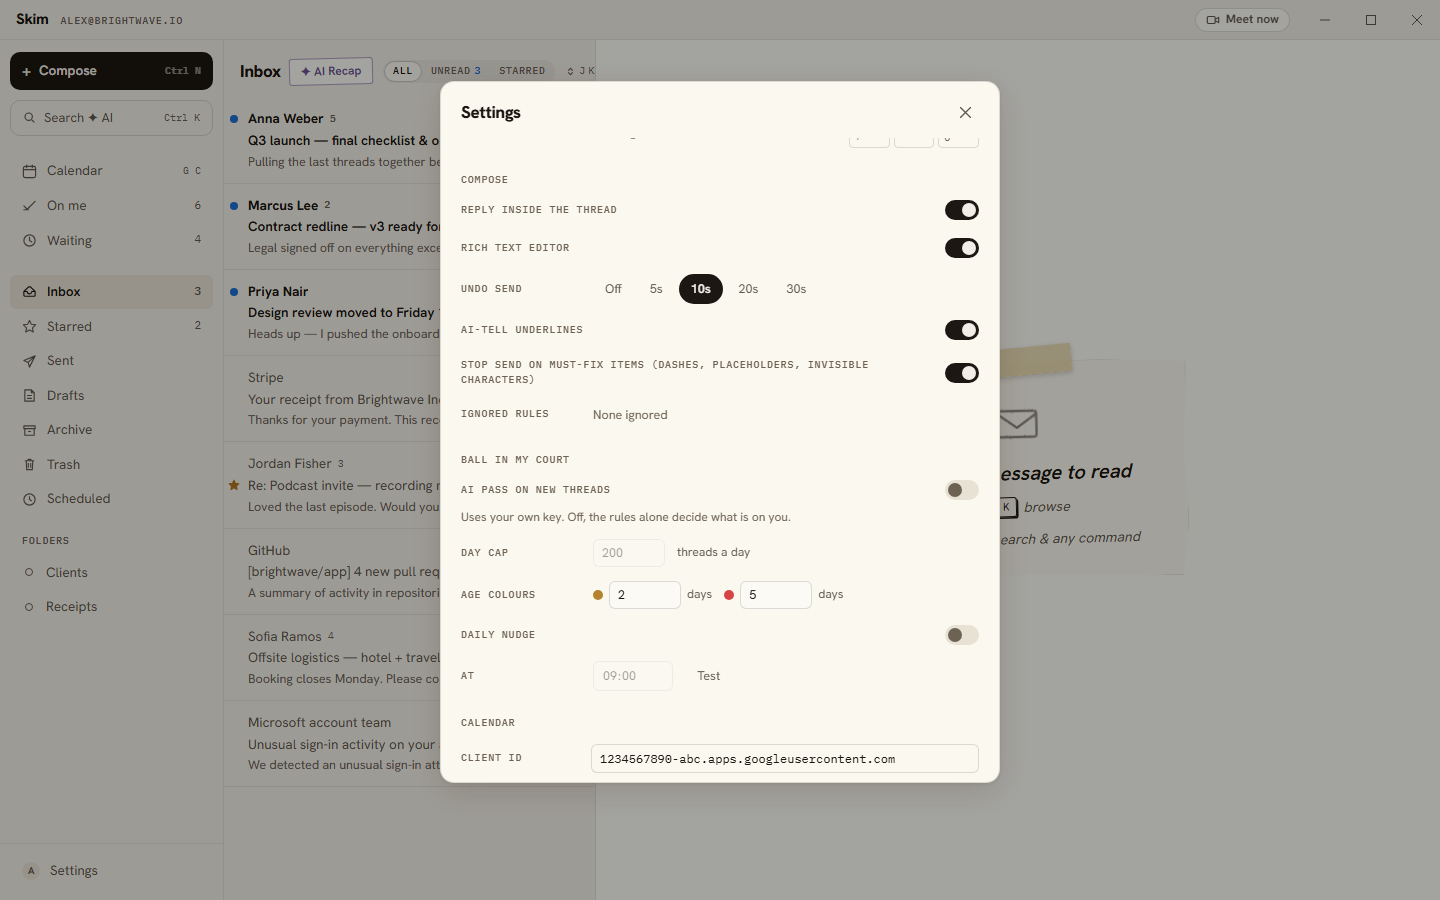
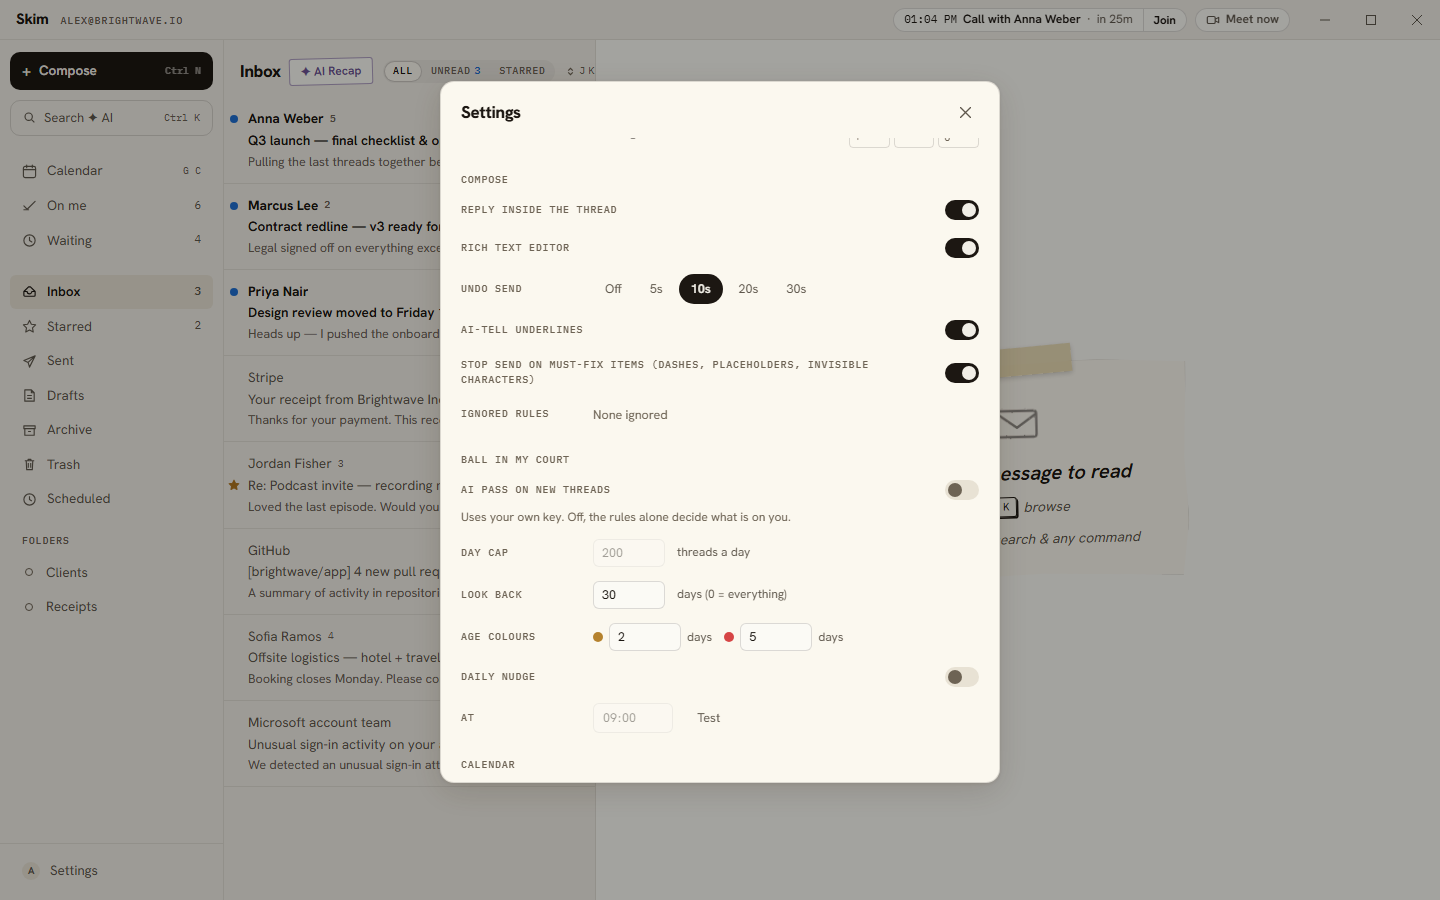
fork(13.4): court views look back 30 days (setting: Look back); README known limits brought to the install state
The first live install showed On me 4,013 and Waiting 2,588, the whole
mailbox history. Views, counts, the nudge and MCP list_court now show the
last 30 days by default; 0 = everything. Classification is unchanged.

diff --git a/src/fork/court/prefs.svelte.ts b/src/fork/court/prefs.svelte.ts
@@ -16,6 +16,8 @@ const state = $state({
   ai: false,
   /** Threads per local day the AI pass may judge. */
   aiCap: AI_CAP_DEFAULT,
+  /** How far back On me / Waiting look, in days; 0 = everything (Rust default 30). */
+  windowDays: 30,
   /** Row age turns amber past this many days ... */
   amberDays: AMBER_DAYS_DEFAULT,
   /** ... and red past this many. */
@@ -46,6 +48,8 @@ export const courtPrefs = {
     if (s.fork_court_ai !== undefined) state.ai = s.fork_court_ai === "on";
     if (s.fork_court_ai_cap !== undefined) state.aiCap = posInt(s.fork_court_ai_cap, AI_CAP_DEFAULT);
     if (s.fork_court_amber_days !== undefined) state.amberDays = posInt(s.fork_court_amber_days, AMBER_DAYS_DEFAULT);
+    if (s.fork_court_window_days !== undefined)
+      state.windowDays = s.fork_court_window_days.trim() === "all" ? 0 : posInt(s.fork_court_window_days, 30);
     if (s.fork_court_red_days !== undefined) state.redDays = posInt(s.fork_court_red_days, RED_DAYS_DEFAULT);
     if (s.fork_court_nudge !== undefined) {
       const v = s.fork_court_nudge.trim();
@@ -88,6 +92,14 @@ export const courtPrefs = {
     if (!Number.isInteger(n) || n < 0) return;
     state.aiCap = n;
     persist("fork_court_ai_cap", String(n));
+  },
+  get windowDays() {
+    return state.windowDays;
+  },
+  setWindowDays(n: number) {
+    if (!Number.isInteger(n) || n < 0) return;
+    state.windowDays = n;
+    persist("fork_court_window_days", n === 0 ? "all" : String(n));
   },
   get amberDays() {
     return state.amberDays;

diff --git a/src/fork/court/SettingsCourt.svelte b/src/fork/court/SettingsCourt.svelte
@@ -55,6 +55,18 @@
   </div>
 
   <div class="field">
+    <label class="label" for="fork-court-window">{t("fork.court.settings_window")}</label>
+    <input
+      id="fork-court-window"
+      type="number"
+      min="0"
+      value={courtPrefs.windowDays}
+      onchange={(e) => courtPrefs.setWindowDays(num(e))}
+    />
+    <span class="unit">{t("fork.court.settings_window_unit")}</span>
+  </div>
+
+  <div class="field">
     <span class="label">{t("fork.court.settings_colours")}</span>
     <label class="inline">
       <span class="swatch amber"></span>

diff --git a/src-tauri/src/fork/court.rs b/src-tauri/src/fork/court.rs
@@ -733,6 +733,42 @@ pub fn list(
     offset: i64,
     limit: i64,
 ) -> rusqlite::Result<Vec<CourtRow>> {
+    list_since(conn, state, 0, offset, limit)
+}
+
+/// Default look-back of the court views, in days (`fork_court_window_days`).
+/// Without one, a mailbox's whole history lands in On me / Waiting: the first
+/// live install showed 4,013 and 2,588 threads, which is not a to-do list.
+pub const WINDOW_DAYS_DEFAULT: i64 = 30;
+
+/// The oldest `since` the views show: now minus the window. `0` or `all` in
+/// the setting shows everything (floor 0).
+pub fn window_floor(conn: &Connection, now: i64) -> rusqlite::Result<i64> {
+    let raw = queries::get_setting(conn, "fork_court_window_days")?;
+    Ok(floor_from(raw.as_deref(), now))
+}
+
+fn floor_from(raw: Option<&str>, now: i64) -> i64 {
+    let days = match raw.map(str::trim) {
+        Some("all") | Some("0") => return 0,
+        Some(s) => s
+            .parse::<i64>()
+            .ok()
+            .filter(|d| *d > 0)
+            .unwrap_or(WINDOW_DAYS_DEFAULT),
+        None => WINDOW_DAYS_DEFAULT,
+    };
+    now - days * 86_400
+}
+
+/// [`list`], limited to threads whose `since` is at or after `floor`.
+pub fn list_since(
+    conn: &Connection,
+    state: &str,
+    floor: i64,
+    offset: i64,
+    limit: i64,
+) -> rusqlite::Result<Vec<CourtRow>> {
     let pred = visible_pred(state)?;
     let sql = format!(
         "SELECT t.id,
@@ -746,6 +782,7 @@ pub fn list(
          JOIN threads t ON t.id = c.thread_id
          JOIN messages m ON m.thread_id = t.id
          WHERE {pred}
+           AND coalesce(c.since, 0) >= ?3
            AND m.date = (SELECT max(m2.date) FROM messages m2 WHERE m2.thread_id = t.id)
          GROUP BY t.id
          ORDER BY c.since ASC, t.id ASC
@@ -753,7 +790,7 @@ pub fn list(
     );
     let mut stmt = conn.prepare_cached(&sql)?;
     let rows = stmt
-        .query_map(params![limit, offset], |r| {
+        .query_map(params![limit, offset, floor], |r| {
             let from_name: Option<String> = r.get(1)?;
             let from_addr: Option<String> = r.get(2)?;
             Ok(CourtRow {
@@ -783,11 +820,17 @@ pub fn list(
 }
 
 pub fn counts(conn: &Connection) -> rusqlite::Result<CourtCounts> {
+    counts_since(conn, 0)
+}
+
+/// [`counts`], limited to threads whose `since` is at or after `floor`.
+pub fn counts_since(conn: &Connection, floor: i64) -> rusqlite::Result<CourtCounts> {
     let sql = format!(
         "SELECT sum({VISIBLE_ON_ME}), sum({VISIBLE_WAITING})
-         FROM fork_court c JOIN threads t ON t.id = c.thread_id"
+         FROM fork_court c JOIN threads t ON t.id = c.thread_id
+         WHERE coalesce(c.since, 0) >= ?1"
     );
-    conn.query_row(&sql, [], |r| {
+    conn.query_row(&sql, [floor], |r| {
         Ok(CourtCounts {
             on_me: r.get::<_, Option<i64>>(0)?.unwrap_or(0),
             waiting: r.get::<_, Option<i64>>(1)?.unwrap_or(0),
@@ -805,7 +848,8 @@ pub async fn fork_court_list(
     state
         .db
         .read("fork_court_list", move |conn| {
-            list(conn, &court_state, offset, limit)
+            let floor = window_floor(conn, chrono::Utc::now().timestamp())?;
+            list_since(conn, &court_state, floor, offset, limit)
         })
         .await
 }
@@ -814,7 +858,9 @@ pub async fn fork_court_list(
 pub async fn fork_court_counts(state: State<'_, AppState>) -> Result<CourtCounts> {
     state
         .db
-        .read("fork_court_counts", |conn| counts(conn))
+        .read("fork_court_counts", |conn| {
+            counts_since(conn, window_floor(conn, chrono::Utc::now().timestamp())?)
+        })
         .await
 }
 
@@ -842,7 +888,8 @@ pub fn nudge_line(conn: &Connection) -> rusqlite::Result<Option<String>> {
 }
 
 pub fn nudge_line_at(conn: &Connection, now: i64) -> rusqlite::Result<Option<String>> {
-    let n = counts(conn)?.on_me;
+    let floor = window_floor(conn, now)?;
+    let n = counts_since(conn, floor)?.on_me;
     if n == 0 {
         return Ok(None);
     }
@@ -851,9 +898,10 @@ pub fn nudge_line_at(conn: &Connection, now: i64) -> rusqlite::Result<Option<Str
             &format!(
                 "SELECT m.from_name, m.from_addr, c.since
                  FROM fork_court c JOIN messages m ON m.id = c.last_message_id
-                 WHERE {VISIBLE_ON_ME} ORDER BY c.since ASC LIMIT 1"
+                 WHERE {VISIBLE_ON_ME} AND coalesce(c.since, 0) >= ?1
+                 ORDER BY c.since ASC LIMIT 1"
             ),
-            [],
+            [floor],
             |r| Ok((r.get(0)?, r.get(1)?, r.get(2)?)),
         )
         .optional()?;
@@ -994,6 +1042,25 @@ mod tests {
 
     fn run(conn: &mut Connection) -> PassStats {
         pass(conn, &Scope::All, false).unwrap()
+    }
+
+    #[test]
+    fn window_floor_defaults_to_30_days_and_all_shows_everything() {
+        let now = 1_800_000_000;
+        assert_eq!(floor_from(None, now), now - 30 * 86_400);
+        assert_eq!(floor_from(Some("7"), now), now - 7 * 86_400);
+        assert_eq!(floor_from(Some("all"), now), 0);
+        assert_eq!(floor_from(Some("0"), now), 0);
+        assert_eq!(
+            floor_from(Some("junk"), now),
+            now - 30 * 86_400,
+            "bad value = default"
+        );
+        assert_eq!(
+            floor_from(Some("-3"), now),
+            now - 30 * 86_400,
+            "negative = default"
+        );
     }
 
     #[test]

diff --git a/src-tauri/src/fork/mcp/tools.rs b/src-tauri/src/fork/mcp/tools.rs
@@ -466,7 +466,8 @@ async fn list_court(server: &Server, a: &Args<'_>) -> ToolResult {
     let rows = server
         .db
         .read("mcp_list_court", move |conn| {
-            court::list(conn, &state, 0, limit)
+            let floor = court::window_floor(conn, chrono::Utc::now().timestamp())?;
+            court::list_since(conn, &state, floor, 0, limit)
         })
         .await?;
     Ok(json!({
@@ -1048,6 +1049,12 @@ mod tests {
                  VALUES (?1, 'a2', 'on_me', 1_700_000_300, ?2, NULL),
                         (?3, 'a1', 'waiting', 1_700_000_400, ?4, NULL)",
                 rusqlite::params![threads[2], ids[2], threads[0], ids[3]],
+            )?;
+            // The rows are dated 2023: look back over everything (the 30-day
+            // default window is tested in fork::court).
+            conn.execute(
+                "INSERT OR REPLACE INTO settings (key, value) VALUES ('fork_court_window_days', 'all')",
+                [],
             )
             .map(|_| ())
         })

diff --git a/src-tauri/src/fork/settings.rs b/src-tauri/src/fork/settings.rs
@@ -31,12 +31,13 @@ pub const ALLOWED: &[&str] = &[
     "fork_crm_anon_key",     // Supabase anon key (public); "" = SKIM_REBOUND_SUPABASE_ANON_KEY
     "fork_crm_workspace_id", // chosen Rebound workspace id
     // Phase 10
-    "fork_court_ai",         // on | off
-    "fork_court_ai_cap",     // threads/day
-    "fork_court_amber_days", // default 2
-    "fork_court_red_days",   // default 5
-    "fork_court_nudge",      // HH:MM or "off"
-    "fork_court_nudged_at",  // internal: unix seconds of the last nudge toast
+    "fork_court_ai",          // on | off
+    "fork_court_ai_cap",      // threads/day
+    "fork_court_amber_days",  // default 2
+    "fork_court_red_days",    // default 5
+    "fork_court_nudge",       // HH:MM or "off"
+    "fork_court_nudged_at",   // internal: unix seconds of the last nudge toast
+    "fork_court_window_days", // look-back of On me / Waiting; default 30, "all" = everything
     // Phase 12
     "fork_mcp", // on | off
 ];

diff --git a/docs/fork/README.md b/docs/fork/README.md
@@ -201,48 +201,29 @@ Done in a throwaway worktree (`trial/upstream-merge`, cut from `paddy` at
 
 ## Known limits, stated plainly
 
-From the `## status` sections of the pending files, 2026-09-23:
+State at the v1.1.0 install, 2026-09-23:
 
-- No live call to Google was made during the build. No client was configured on
-  the build box; the Calendar v3 and Meet request shapes were written from the
-  reference and tested against JSON fixtures. The first real Connect is the
-  test. If Google 404s on the raw `@` in a calendar path, percent-encode the
-  segment in `gapi::events_url`.
-- No live call to Rebound was made. No credentials were entered; the login,
-  refresh, lookup and cache paths are unit-tested against route-shaped
-  fixtures. The first check is Settings, CRM, Connect, then `i` on a known
-  contact's thread.
-- The MCP server is verified on paper until the Phase 13 smoke test: 22 tests
-  drive every tool through the real HTTP path on port 0 against an in-memory
-  database, but no Claude Code session has called it yet. If Claude Code
-  insists on an SSE reply, the fix is one content type in `handle_request`.
+- No live call to Google was made. No OAuth client exists yet (human step 1),
+  so the Calendar v3 and Meet request shapes were written from the reference
+  and tested against JSON fixtures. The first real Connect is the test. If
+  Google 404s on the raw `@` in a calendar path, percent-encode the segment in
+  `gapi::events_url`.
+- No live call to Rebound was made. No credentials were entered (human step 2);
+  login, refresh, lookup and cache are unit-tested against route-shaped
+  fixtures. First check: Settings, CRM, Connect, then `i` on a known contact.
+- The MCP server was checked live on the installed build: 401 without the
+  token, 403 for a foreign Origin, 12 tools listed, `search_mail` answered with
+  real results, and `claude mcp list` shows `skim` connected.
 - The Ball-in-my-court AI pass has never run live (no key in the build
-  environment; network is forbidden in tests). It is off by default. Every
-  outbound mail ever sent reads as "waiting" until answered (D-10b); if that is
-  noise, a `since` floor belongs in the view or a setting.
+  environment). It is off by default. Every outbound mail reads as "waiting"
+  until answered (D-10b); if that is noise, a `since` floor belongs in the view.
 - Freshness (3.4) and the Gmail archive path (1.1, 1.2) are tested at the
-  predicate, not against a live IMAP server: upstream has no scripted IMAP
-  session for tests (D15).
-- Several phases could not take in-app screenshots from their agent, because
-  the mock cases live in main-session files: 3.4 (no visual change), 4, 5
-  (stylesheet checked outside the app), 6.5 (static mock shots), 9, 10, 11, 12.
-  Those shots are taken once the main session merges the pending files.
-- Until the main session merges each pending file, that phase's commands are
-  unregistered in `generate_handler!` and unreachable from the UI. The pending
-  files spell out what breaks in the meantime (for example a search shows
-  "couldn't load", held sends fire on the next drain, the Scheduled folder is
-  unreachable).
-- `htmlToText` in the rich editor is exercised only in the browser; it has no
-  node test.
-- The whole `cargo test` run was green (495 passed) only at moments when every
-  concurrent agent's file compiled. Individual agents recorded 2 to 7 failures
-  in other agents' in-flight files at various times, plus the
-  `STATUS_ENTRYPOINT_NOT_FOUND` loader fault when run from Git Bash (D25). Run
-  `gates.sh` on a settled tree before trusting any number.
-- The 6.5 rules export (`6b401a78d`) is committed in the OS repo on `trunk` and
-  not pushed; the port row for 8342 was added to `OS/meta/PORTS.md` and not
-  committed.
+  predicate, not against a scripted IMAP server (D15).
+- `htmlToText` in the rich editor is exercised only in the browser.
+- Run `cargo test` through `scripts/fork/gates.sh`, or from PowerShell: from
+  Git Bash the test binary dies with STATUS_ENTRYPOINT_NOT_FOUND (D25).
 - Send later needs the app running: Skim autostarts to the tray, and the
   Scheduled view says so.
-- Nothing has been pushed to `origin` and no tag exists yet; that is the last
-  step of Phase 13.
+- The port row for 8342 is in `OS/meta/PORTS.md` but not committed there: that
+  file carried other sessions' uncommitted edits, so a path commit would have
+  swept them in.

diff --git a/docs/fork/DECISIONS.md b/docs/fork/DECISIONS.md
@@ -127,3 +127,4 @@ Anything decided during the build is appended below with a date.
 - **2026-09-23 D41 (13 smoke):** the live smoke test found that Esc on an untouched inline reply saved an empty reply to the Gmail Drafts folder: the rich editor reports its first render as input, so `dirty` was true with nothing typed. "Edited" now means dirty AND the draft differs from what was loaded (to, cc, bcc, subject, body); Esc, thread switch and the server write-back all use it. The one empty draft the smoke test created (local draft 1, Drafts message 28875) was removed through the app's own delete path; nothing was sent. Checked both ways in the demo: untouched Esc = delete_draft only, edited Esc = save_server_draft only.
 - **2026-09-23 D42 (13 smoke):** Meet now without Google connected opened meet.new silently; it now toasts "Opened meet.new in your browser".
 - **2026-09-23 D43 (13 smoke):** smoke-test screenshots show real mail, so they live in the session scratchpad, never under `docs/fork/shots/`, never committed.
+- **2026-09-23 D44 (13 smoke):** the first live install showed On me 4,013 and Waiting 2,588: the court classified the whole mailbox history, which is not a to-do list. The views, counts, nudge and MCP `list_court` now look back 30 days by default (`fork_court_window_days`, Settings: Look back; 0 = everything). Classification is unchanged; only what is shown is windowed.
